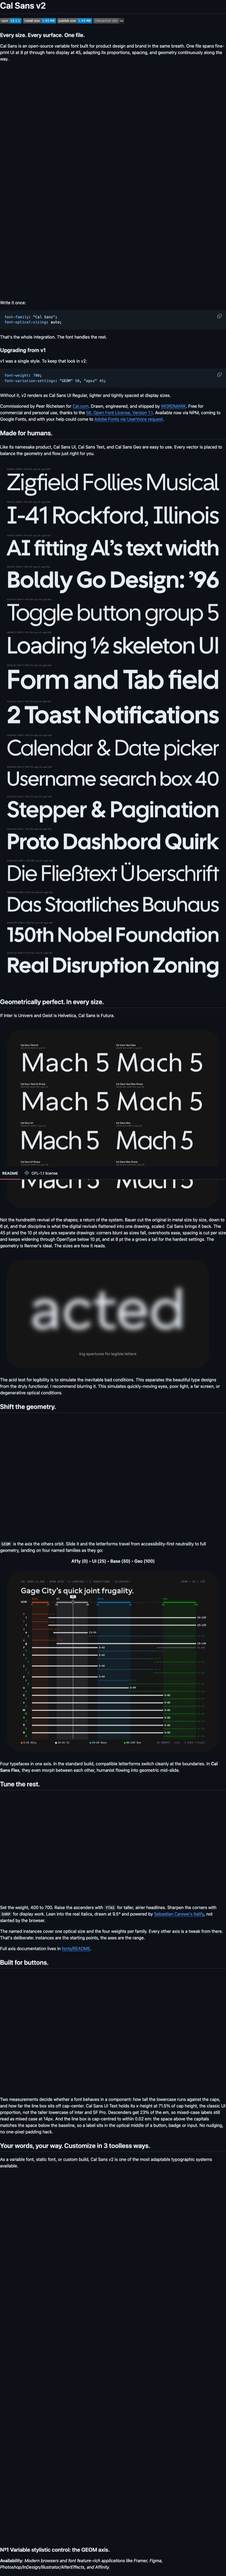
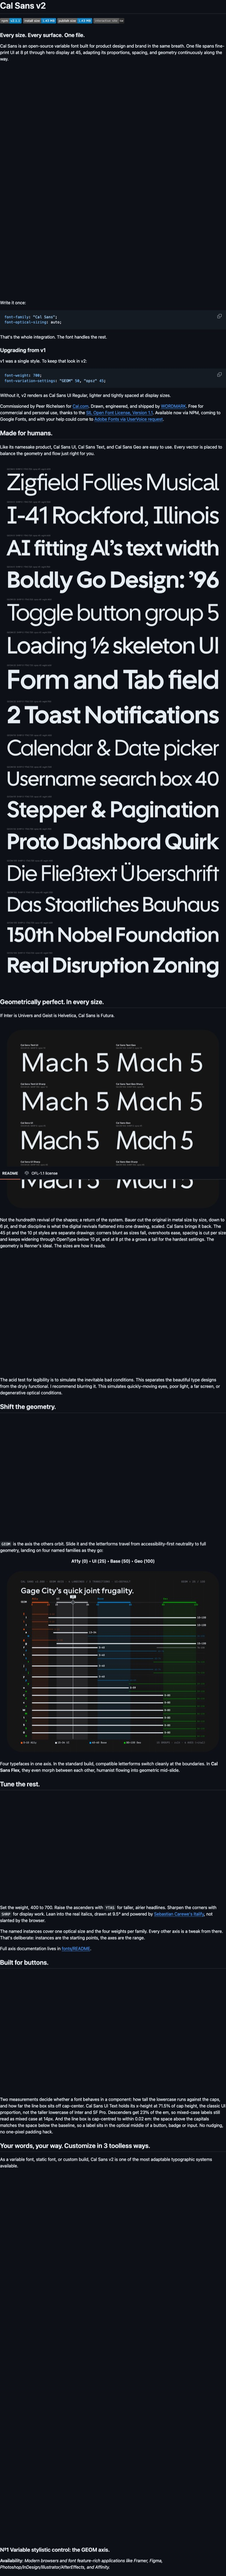
WIP build-with-me: README print gains the Geometry figure, seven live SVGs (not for merge)

Changed region(s): [[0.125, 0.4989, 0.8438, 0.5301]]

diff --git a/build-with-me/index.html b/build-with-me/index.html
@@ -311,7 +311,7 @@ footer a:hover { color: var(--text); }
 
 <section class="reason reason--pop grid">
   <div class="numeral" aria-hidden="true">2</div>
-  <figure class="pop-print"><a href="https://github.com/calcom/sans#readme" target="_blank" rel="noopener"><span class="scroll"><span class="reel"><img src="proof-readme-scroll.jpg?v=2" width="640" height="7281" loading="lazy" alt="The Cal Sans README on GitHub, scrolling: specimens, the axes, and how to install it."><img class="live" data-src="readme/VariableMorph2-dark.svg" alt="" style="left:0.00%; top:2.576%; width:95.47%"><img class="live" data-src="readme/OpticalSize-dark.svg" alt="" style="left:0.00%; top:6.835%; width:95.47%"><img class="live" data-src="readme/CalGraphics-top-dark.svg" alt="" style="left:0.00%; top:55.016%; width:95.47%"><img class="live" data-src="readme/VariableMorph-dark.svg" alt="" style="left:0.00%; top:69.663%; width:95.47%"><img class="live" data-src="readme/Interoperable-dark.svg" alt="" style="left:0.00%; top:76.589%; width:95.47%"><img class="live" data-src="readme/CalThreeWays-dark.svg" alt="" style="left:0.00%; top:84.374%; width:95.47%"></span></span></a><figcaption>github.com/calcom/sans</figcaption></figure>
+  <figure class="pop-print"><a href="https://github.com/calcom/sans#readme" target="_blank" rel="noopener"><span class="scroll"><span class="reel"><img src="proof-readme-scroll.jpg?v=3" width="640" height="7281" loading="lazy" alt="The Cal Sans README on GitHub, scrolling: specimens, the axes, and how to install it."><img class="live" data-src="readme/VariableMorph2-dark.svg" alt="" style="left:0.00%; top:2.576%; width:95.47%"><img class="live" data-src="readme/OpticalSize-dark.svg" alt="" style="left:0.00%; top:6.835%; width:95.47%"><img class="live" data-src="readme/Geometry-dark.svg" alt="" style="left:0.00%; top:48.657%; width:95.47%"><img class="live" data-src="readme/CalGraphics-top-dark.svg" alt="" style="left:0.00%; top:55.016%; width:95.47%"><img class="live" data-src="readme/VariableMorph-dark.svg" alt="" style="left:0.00%; top:69.663%; width:95.47%"><img class="live" data-src="readme/Interoperable-dark.svg" alt="" style="left:0.00%; top:76.589%; width:95.47%"><img class="live" data-src="readme/CalThreeWays-dark.svg" alt="" style="left:0.00%; top:84.374%; width:95.47%"></span></span></a><figcaption>github.com/calcom/sans</figcaption></figure>
   <div class="body">
     <h2>The work shows</h2>
     <p>The sources are public, so the claims are checkable. Cal Sans has 1,546 glyphs, 402,680 kern pairs, and covers 414 languages. You do not have to take my word for any of it: <a href="https://github.com/calcom/sans">open the repository</a> and count.</p>

diff --git a/build-with-me/_readme-capture.js b/build-with-me/_readme-capture.js
@@ -13,7 +13,7 @@ const wait = (ms) => new Promise((done) => setTimeout(done, ms));
   await p.evaluate(async () => { for (let y = 0; y < document.body.scrollHeight; y += 700) { scrollTo(0, y); await new Promise((d) => setTimeout(d, 120)); } scrollTo(0, 0); });
   await wait(1500);
   const info = await p.evaluate(() => {
-    const ANIMATED = ['VariableMorph2', 'OpticalSize', 'CalGraphics-top', 'VariableMorph', 'Interoperable', 'CalThreeWays'];
+    const ANIMATED = ['VariableMorph2', 'OpticalSize', 'Geometry', 'CalGraphics-top', 'VariableMorph', 'Interoperable', 'CalThreeWays'];
     const art = document.querySelector('article.markdown-body'); let A = art.getBoundingClientRect();
     const name = (i) => { const all = i.currentSrc + ' ' + (i.getAttribute('data-canonical-src') || '') + ' ' + [...i.parentElement.querySelectorAll('source')].map((s) => s.srcset + ' ' + (s.getAttribute('data-canonical-src') || '')).join(' '); const m = /documentation\/images\/svg\/([\w-]+?)(-dark)?\.svg/.exec(all); return m ? m[1] : ''; };
     const imgs = [...art.querySelectorAll('img')].filter((i) => ANIMATED.includes(name(i)));
